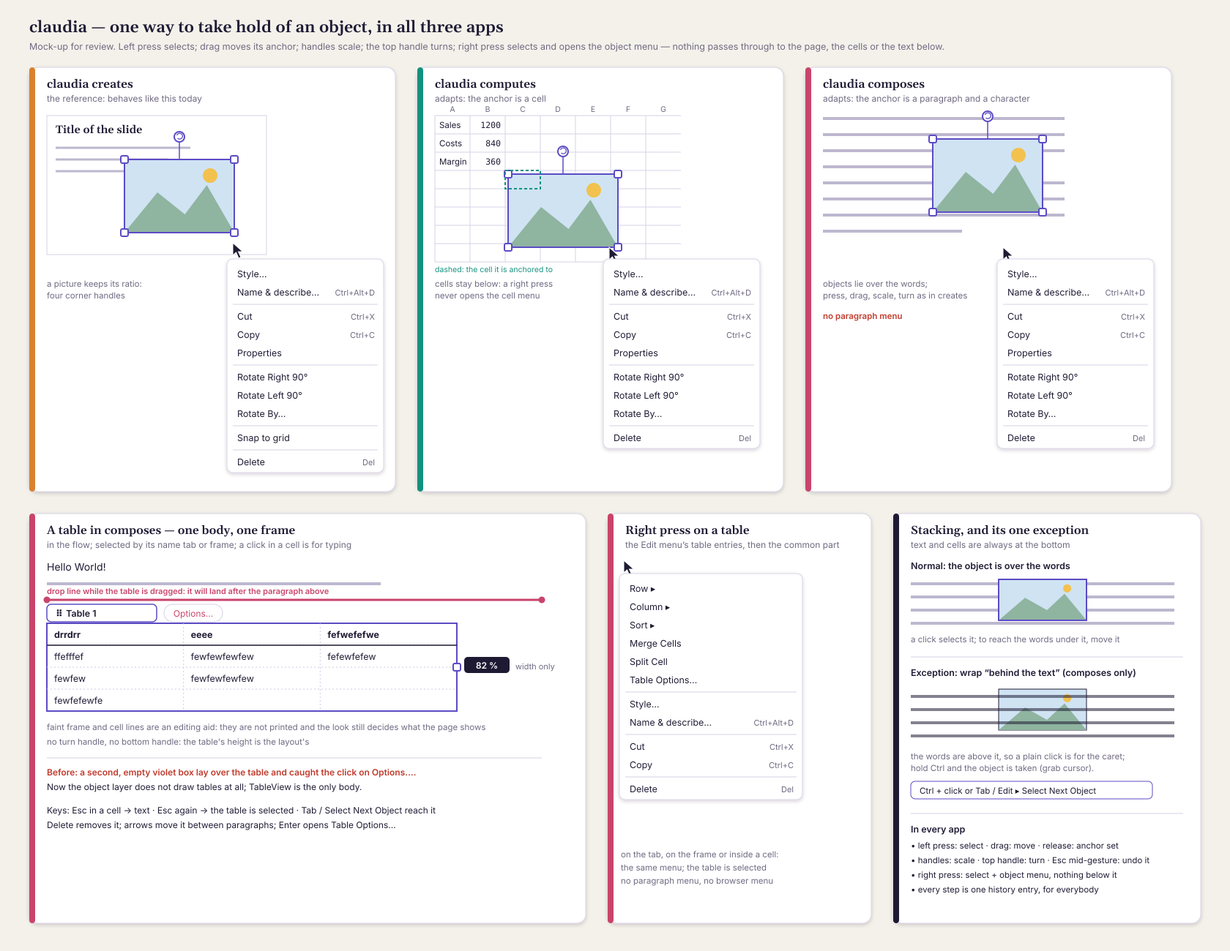
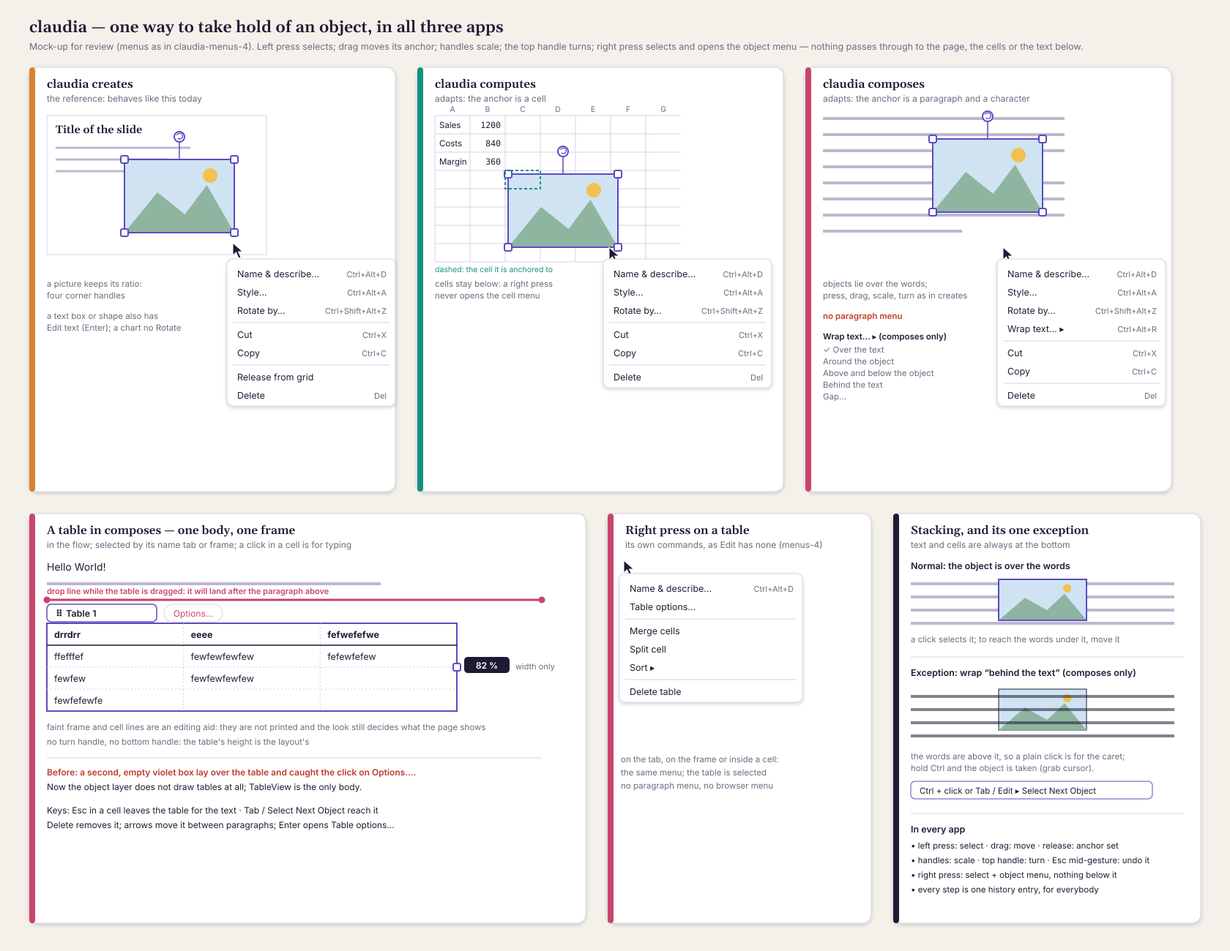
Object interaction: decisions D1221-D1226, menus as in claudia-menus-4
Writes up the agreed contract (selecting holds in all apps, objects over text
and cells with Ctrl+click only behind the text, tables as in-flow objects,
the object menu as the menus workbook sets it, bounding-box wrap for turned
objects), takes D1221-D1240, and revises the note and the mock-up to the
workbook: no 90 degree entries, Rotate by... not for charts and tables, Wrap
text... submenu, table menu. Lists what the workbook still needs.

Claude-Session: https://claude.ai/code/session_013Hm7HACXAYZk2t9xrPwEnR

diff --git a/claudiaoffice-log/notes/object-interaction-contract.md b/claudiaoffice-log/notes/object-interaction-contract.md
@@ -1,7 +1,7 @@
 # Object interaction: one contract for creates, computes and composes
 
-Written 2026-11-18, the day it was asked for. **Status: proposal, screens and diagram first (project rule). Nothing in
-`web/` is changed by this patch.** The mock-ups are `notes/mockups/object-interaction-states.svg` (what a person sees and
+Written 2026-11-18, the day it was asked for. **Status 2026-11-18 (second patch): agreed with the owner; decisions D1221–D1226 written. Nothing in
+`web/` is changed yet.** The mock-ups are `notes/mockups/object-interaction-states.svg` (what a person sees and
 can do, in all three apps) and `notes/mockups/object-interaction-architecture.svg` (where the code goes, and why). No
 decision-log entries are written here: the proposals under "Decisions to write" become decisions once the screens are
 agreed, in the id range the owner hands out for the work.
@@ -17,14 +17,20 @@ agreed, in the id range the owner hands out for the work.
 
 Answers of the same day (the owner, 2026-11-18):
 
-1. **Stack order.** Text and cells are always at the bottom of the stack. An object lies over them, so a click on it
-   simply selects it; to reach what is under it, move the object. The one exception is composes' wrap *behind the text*
+1. **Stack order** (D1222). Text and cells are always at the bottom of the stack. An object lies over them, so a click on
+   it simply selects it; to reach what is under it, move the object. The one exception is composes' wrap *behind the text*
    (D1061), where words are above the object: there, and only there, **Ctrl+click** takes the object (D1063 stays for
    exactly that case).
-2. **Tables** are in-flow objects: select, move between paragraphs, scale the width, no rotation.
-3. **Object menu:** the same list in all three apps, **without** "Snap to grid" in composes and computes (they anchor to
-   text and to cells, not to a grid).
-4. **Target branch:** `object-interaction`.
+2. **Tables** (D1224) are in-flow objects: select, move between paragraphs, scale the width, no rotation. The faint frame
+   is always on for now. `Esc` in a cell leaves the table completely.
+3. **Holding** (D1223): all three apps hold a selected object, as creates does (D82).
+4. **Words round a turned object** (D1226): the bounding box.
+5. **Menus** (D1225): the object menu is the one the menus workbook v4 (`claudia-menus-4.xlsx`, Context menus) sets, with
+   the answers below. This replaces the first proposal of this note (90° entries, no grid entry outside creates).
+6. **Table menu:** Name & describe…, Table options…, Merge cells, Split cell, Sort ▸, Delete table (the commands Edit no
+   longer has). **Rotate by…** is not offered for a chart or a table. **Wrap text…** is a submenu of the four modes of
+   D1061 with a checkmark and *Gap…*, key Ctrl+Alt+R. **Edit text** is in all three apps.
+7. **Target branch** `object-interaction`; decision ids D1221–D1240.
 
 ## The contract
 
@@ -40,10 +46,10 @@ columns that differs from creates is a bug or a stated adaptation.
 | Drag the turn handle | Rotates about the centre, 3° snap near axes, Shift 15°, Alt free (D1024) | built | **missing** | **missing** |
 | Right press on an object | Selects it and opens the object menu at the pointer; the browser's menu, the paragraph menu, the cell menu and the row/column menu do not appear | built | **opens the cell menu** | **opens the paragraph style menu** |
 | Right press elsewhere | The app's own menu (cells, headers, paragraphs) as today; Shift+right button still gives the browser's menu there | built | built | built |
-| Double click, `Enter`, `F2` | Writes in a text box, a shape or a rendered container; a picture has no words | built | rendered only | rendered only |
+| Double click, `Enter`, `F2` | Writes in a text box, a shape or a rendered container; a picture or a chart has no words (D1225) | built | rendered only | rendered only |
 | `Delete` | Removes the selected object | built | built | built |
 | Arrow keys | Nudge the object (Shift: larger steps; the exact steps are for the shared module to fix). In composes up/down hang it from the previous or next paragraph (built), left/right change the offset | built (to be checked) | **missing** | partly |
-| `Esc` | Drops a drag or a turn in progress; otherwise deselects | built | deselects | deselects |
+| `Esc` | Drops a drag or a turn in progress; otherwise deselects; in a table cell it leaves the table for the text (D1224) | built | deselects | deselects |
 | Press elsewhere | Deselects | built | built | built |
 | `Tab`, Edit ▸ Select Next Object, Ctrl+Alt+PageUp/Down | Steps through the objects of the page, sheet or slide, so everything above works without a pointer (BITV) | to be checked | PageUp/Down only | Select Next Object |
 
@@ -68,7 +74,7 @@ columns that differs from creates is a bug or a stated adaptation.
 - The table's borders: the default look (`rules`) draws only the header rules, so the table's start and end are not
   visible while editing.
 - A rendered container keeps no fixed aspect (`_check_rendered_visual`), which is why "containers with LaTeX scale
-  properly". Their *initial* size is too large: the place that sets it still has to be found (open point 4).
+  properly". Their *initial* size is too large: the place that sets it still has to be found (open point 1).
 
 **computes**
 
@@ -92,8 +98,7 @@ anchor in `claudia_core`. The client has the same split waiting to be made. (Dia
   returns the preview frame and, on release, one `Commit` (`move`, `resize`, `turn`) or nothing. It reuses
   `moveFrame`, `resizeFrame`, `moveTurned`, `resizeTurned` and `turnFromPointer` (today in `geometry.ts`/`turning.ts`),
   which gain an explicit `Bounds` instead of the constants `SLIDE_W`/`SLIDE_H`. Creates passes the slide as bounds.
-- `object-menu.ts` (exists): the item list. Gains `snap` as optional so composes and computes leave it off, and `table`
-  entries for a table. One list, one order, one key per item (D321, D361).
+- `object-menu.ts` (exists): the item list. Built from the object's kind and two flags (grid, wrap), with the list of D1225 and the table menu of D1224. One list, one order, one key per item (D321, D361).
 - `ObjectFrame.vue` (new): the selection outline, the eight (or four) handles and the turn handle with their
   accessible names, drawn once for all three apps; creates' markup moves into it.
 - `useObjectInteraction(host)` (new composable): wires `object-gestures` to pointer events with capture, the object
@@ -122,7 +127,7 @@ code as well as in behaviour.
   never resizes on a structural edit, E6.17). The preview moves freely and snaps to the cell on release.
 - **composes:** the anchor becomes the paragraph and character nearest the drop point, and `dx`/`dy` the remainder (the
   free offset of D1023). Dropping on another page or column re-hangs it from that paragraph. A turned object is judged
-  by its outline, as in creates (D1022); how words flow round a turned object is open point 3.
+  by its outline, as in creates (D1022); the words go round its bounding box (D1226).
 
 ### Tables (D1201)
 
@@ -131,8 +136,8 @@ A table is an object of kind `table`, drawn once, in the flow. The layer stops d
 
 - **Selecting.** A click on the table's name tab (a small tab above its top-left corner, "Table 1", with a grip) or on its
   frame selects the table: one outline, in the table's own box, with a handle on the right edge. A click in a cell puts
-  the caret in that cell and does *not* select the table. `Options…` moves into the table's menu and stays on the tab as
-  a button above the outline, outside the layer, so nothing covers it.
+  the caret in that cell and does *not* select the table. `Options…` stays on the tab as
+  a button above the outline, outside the layer, so nothing covers it, and is also in the table menu.
 - **Moving.** Dragging the tab or the selected frame moves the table: a horizontal *drop line* shows between the
   paragraphs it would land after; on release it is one `move_object`. The anchor is a paragraph, so the table never
   floats.
@@ -140,19 +145,28 @@ A table is an object of kind `table`, drawn once, in the flow. The layer stops d
   already stored), shows the percentage while dragging, and snaps to 100 %. Height is the layout's (the kernel says `h`
   is only what was last found), so there is no bottom handle. No rotation: the turn handle and Rotate entries are not
   shown for a table.
-- **Right click** on the tab, the frame or inside a cell selects the table and opens the table menu: Row ▸, Column ▸,
-  Sort ▸, Merge Cells, Split Cell, Table Options…, then the common part (Style…, Name & describe…, Cut, Copy, Delete).
-  These are the Edit menu's table entries, with the same keys (`table-menu.ts`); nothing new is invented.
+- **Right click** on the tab, the frame or inside a cell selects the table and opens the table menu (D1224): *Name &
+  describe…, Table options…, Merge cells, Split cell, Sort ▸, Delete table*. Edit no longer carries these (menus
+  workbook v4), so the workbook needs these rows added to its Context menus sheet (see "For the workbook" below).
+  Insert/delete ▸ and Height/width… belong to the row and column headers; composes' tables have no header UI yet.
 - **Borders.** In the editor a table always shows a faint hairline frame and cell lines (a *non-printing editing aid*,
   like Word's gridlines), whatever its look. A look with real rules draws them on top; print and PDF show only the look.
-  Whether this needs a View switch is open point 5.
+  It may become a View switch when the menu structure has one (D1224).
 
-### The object menu
+### The object menu (D1225)
 
-Same list in all three apps, in this order: **Style…, Name & describe…** (the label the menu-structure draft gives
-"Describe…"), separator; for a picture: **Cut, Copy, Properties**; otherwise **Edit Text**; separator; **Rotate Right 90°, Rotate Left 90°, Rotate By…** (not for a chart or a table); separator;
-**Snap to grid** (creates only); separator; **Delete**. A table's menu is the one above. A chart in computes has the same
-menu minus the rotate entries. Every item has the key it has in the Edit/Format menus; the shortcut hints are shown.
+One list in all three apps, in the workbook's order and groups (Context menus rows 1–9):
+
+1. **Name & describe…** (Ctrl+Alt+D) · **Edit text** (Enter; not for a picture or a chart) · **Style…** (Ctrl+Alt+A; for a
+   picture it also holds what "Properties" did) · **Rotate by…** (Ctrl+Shift+Alt+Z; not for a chart or a table) ·
+   **Wrap text… ▸** (composes only)
+2. **Cut**, **Copy** (pictures only)
+3. **Release from grid** (creates only; swaps with "Snap to grid") · **Delete** (Del)
+
+No 90° entries; Rotate by… does them. **Wrap text…** is a submenu: ✓ Over the text, Around the object, Above and below the
+object, Behind the text, then Gap…; it shows Ctrl+Alt+R, which keeps cycling (D1064). The list is built in `object-menu.ts`
+from the object's kind and two flags (grid, wrap), so the apps cannot drift. A chart's menu is the same minus Rotate by…
+and Edit text.
 
 ## E2E tests: one spec, three apps, every kind
 
@@ -163,35 +177,41 @@ does). It creates one object of every kind the app offers and runs the contract'
    (the caret / active cell did not move);
 2. drag moves, with the preview during the move and one history entry after; `Esc` mid-drag restores;
 3. each handle scales; an image keeps its ratio (and the size does **not** snap back); a table scales its width only;
-4. the turn handle rotates; Rotate Right/Left/By… from the menu;
+4. the turn handle rotates; Rotate by… from the menu (and no Rotate entry for a chart or a table);
 5. right press selects and opens the object menu with exactly the contract's items; the cell menu, the header menu and
    the paragraph menu are **not** in the DOM;
 6. keyboard: Tab / Select Next Object reaches the object, arrows nudge, Delete removes, Enter edits;
 7. composes: a table's `Options…` opens the dialog; the table has exactly one frame (`[data-testid=object-frame]`
-   count is 1); dropping a table between two paragraphs changes the order; the wrap-behind exception needs Ctrl+click.
+   count is 1); dropping a table between two paragraphs changes the order; the wrap-behind exception needs Ctrl+click;
+   `Esc` in a cell leaves the table for the text;
+8. a second window sees the holder's outline and name tag while the object is selected, and no drag live, only its result
+   (D1223).
 
 A second, cheap guard keeps it honest as features arrive: `tests/test_object_kinds_agree.py` already pins that the kinds
 have one list (`claudia_core.OBJECT_KINDS`); it gains one check that every kind of that list appears in
 `web/e2e/objects.cjs`'s kind table, so a new kind cannot ship without its row. The same file lists `ObjectHost` members, so a new host member fails a unit test until the
 three adapters have it.
 
-## Open points (answers wanted before code)
+## For the workbook (`claudia-menus`), to settle with the other agent
 
-1. **Holding.** Creates holds an object while it is selected (D82: others see an outline and a name). Computes keeps
-   its selection local ("not shared", E6.17); composes' `session.selectObject` is shared. Should all three hold, as in
-   D82? Proposed: yes, as it is the same story as the lock in creates and E10.6, but it changes what colleagues see in
-   computes and composes, so it is yours to say.
-2. **The grid in computes and composes.** Nothing snaps there in this proposal (cells and characters are the grid). If
-   you would rather have free positioning in computes (an object between two cell edges), that is a new anchor field.
-3. **Words round a turned object in composes.** Wrap uses the object's box; creates judges a turned object by its
-   outline (D1022). Proposed: the wrap uses the turned object's bounding box, and the exact outline is a later story.
-4. **The initial size of a rendered container** (LaTeX) is too large; I have not yet found where it is set. Proposed:
-   the container is first drawn at its rendered size (the renderer returns `width × height`, `service.py`), capped at
-   the column width, then scaled by the person.
-5. **The editing frame of a table.** Always on, or switchable at View ▸ Table gridlines? The menu draft is under
-   review, so I would not add a menu entry without your word.
-6. **Selecting without a pointer inside a table.** Escape in a cell leaves the table for the text today; proposed:
-   a second Escape selects the table (frame and handle), a third gives the caret back.
+1. **Table context menu rows** (Context menus sheet, Table): add *Table options…, Merge cells, Split cell, Sort ▸, Delete
+   table* for composes (D1224). The sheet has only Name & describe….
+2. **Rotate by…** row: note "not for a chart or a table" (D1021).
+3. **Wrap text…** row: the options are the four modes plus Gap…, key Ctrl+Alt+R (today's `format.wrap-text`, which is
+   already in the composes manifest on `main`); the sheet's guess ("In line with text", "No wrap") does not exist in the
+   model. "To decide" #16 and #20 are answered by D1225.
+4. **Edit text** row: D/E/F = 1 is right; its Enter key is handled by the document view.
+5. **Name & describe…** (#12, still "discuss"): not decided here. This work calls the existing dialog for objects; the
+   dialog's name and description/note fields for other things follow your answer to #12.
+
+## Open points
+
+1. **The initial size of a rendered container** (LaTeX) is too large; I have not yet found where it is set. Proposed:
+   the container is first drawn at its rendered size (the renderer returns `width × height`), capped at the column
+   width, then scaled by the person.
+2. **Composes tables have no row and column headers**, so "Height / width…" and "Insert / delete ▸" on headers (workbook
+   rows 18, 19) need that UI first; it is not part of this work.
+3. **Keys of the table menu entries** stay those the Edit entries have today until the workbook assigns new ones.
 
 ## Build order
 

diff --git a/claudiaoffice-log/decision-log/1221-current-all-one-contract-for-selecting-moving-scaling-and-turning-an-object.md b/claudiaoffice-log/decision-log/1221-current-all-one-contract-for-selecting-moving-scaling-and-turning-an-object.md
@@ -1,0 +1,18 @@
+---
+id: D1221
+title: "One contract for selecting, moving, scaling and turning an object, written once and adapted per app"
+status: current
+applies-to: all
+date: 2026-11-18
+round: "Object interaction in the three apps (branch object-interaction)"
+supersedes: []
+superseded-by: []
+---
+
+# D1221 · One contract for selecting, moving, scaling and turning an object, written once and adapted per app
+
+**A left press on an object selects it; moving the pointer more than 3 screen pixels moves it, and on release its anchor is repositioned; the handles scale it; the handle above it turns it; a right press selects it and opens the object menu, and nothing below it receives the press.** This is how creates behaves today and is the reference; computes and composes follow it. A gesture is previewed locally and is one command on release (D82), `Esc` during it puts the object back, and every kind of object that can be scaled or turned can be, in every app. An object that keeps an aspect (an image, a shape with `aspect`) shows corner handles only and keeps it, so the server never has to refuse (`_check_visual`).
+
+**The code follows D177.** The gesture (press, threshold, move, handle, turn, release, cancel), the menu list and the frame with its handles are written once in the web client; each app supplies a small host adapter (`ObjectHost`: units of the pointer, where the frame is, its bounds, what a move commits) and nothing else. What the apps release to is their own: creates the slide position, computes the cell under the top-left corner, composes the paragraph and character nearest the drop plus the free offset (D1023).
+
+**Notes.** The owner's request of 2026-11-18, after the new floating-object work left composes' objects and tables unusable and computes passing a right click through to the cells. Design in `notes/object-interaction-contract.md` with the mock-ups `object-interaction-states` and `object-interaction-architecture`. Right press elsewhere is unchanged: each app's own menu, and Shift+right button gives the browser's.

diff --git a/claudiaoffice-log/decision-log/1224-current-composes-a-table-is-an-in-flow-object-selected-by-its-tab-moved-between-paragraphs.md b/claudiaoffice-log/decision-log/1224-current-composes-a-table-is-an-in-flow-object-selected-by-its-tab-moved-between-paragraphs.md
@@ -1,0 +1,18 @@
+---
+id: D1224
+title: "A table is an in-flow object: one body, selected by its tab, moved between paragraphs, scaled in width, never turned"
+status: current
+applies-to: composes
+date: 2026-11-18
+round: "Object interaction in the three apps (branch object-interaction)"
+supersedes: []
+superseded-by: []
+---
+
+# D1224 · A table is an in-flow object: one body, selected by its tab, moved between paragraphs, scaled in width, never turned
+
+**The object layer does not draw objects of kind `table`; `TableView` is the one body.** The table has a name tab above its top-left corner and a frame. A click on the tab or the frame selects it (one outline, one handle on the right edge); a click in a cell puts the caret there and does not select it. Dragging the tab moves the table between paragraphs, with a drop line showing where it will land, and release is one `move_object`. The right-edge handle sets the table's width in hundredths of a percent of the column (`TableInfo.width`), snapping to 100 %; there is no height handle (the layout's) and no turn handle. **`Esc` in a cell leaves the table completely**, for the text. **A faint frame and cell lines are always shown in the editor** as a non-printing aid, whatever the look; print and PDF show only the look.
+
+**The table's context menu** (right press on the tab, the frame or inside a cell; the table is selected): *Name & describe…, Table options…, then Merge cells, Split cell, Sort ▸, then Delete table.* These are the commands the Edit menu no longer carries (menus workbook v4). Insert/delete and Height/width… stay on the row and column headers.
+
+**Notes.** The owner, 2026-11-18, on the three bugs of tables in composes: a second violet frame, a dead "Options…" button, no visible borders. The cause of the first two was the object layer also drawing the table's object as an empty box over the table's caption. Escape was first proposed as a two-step; the owner chose "leave the table completely". The faint frame may become a View switch when the menu structure gets one.

diff --git a/claudiaoffice-log/decision-log/1225-current-all-the-object-context-menu-as-in-the-menus-workbook.md b/claudiaoffice-log/decision-log/1225-current-all-the-object-context-menu-as-in-the-menus-workbook.md
@@ -1,0 +1,20 @@
+---
+id: D1225
+title: "The object context menu is one list for all three apps, as the menus workbook v4 sets it"
+status: current
+applies-to: all
+date: 2026-11-18
+round: "Object interaction in the three apps (branch object-interaction)"
+supersedes: []
+superseded-by: []
+---
+
+# D1225 · The object context menu is one list for all three apps, as the menus workbook v4 sets it
+
+**Right press on an object offers, in this order:** *Name & describe…* (Ctrl+Alt+D) · *Edit text* (Enter; not for a picture or a chart) · *Style…* (Ctrl+Alt+A; for a picture it also holds what "Properties" did) · *Rotate by…* (Ctrl+Shift+Alt+Z) · *Wrap text…* (composes only) · — · *Cut* and *Copy* (pictures only) · — · *Release from grid* (creates only; the one entry that swaps with "Snap to grid") · *Delete* (Del). There are no 90° entries; they are done in Rotate by…. **Rotate by… is not offered for a chart (D1021) or a table.** Edit text is in all three apps: Enter, F2 and the entry edit the words of a text box or shape wherever it floats.
+
+**Wrap text…** is a submenu of the four modes of D1061 with a checkmark on the current one (Over the text, Around the object, Above and below the object, Behind the text) and *Gap…*; the entry shows Ctrl+Alt+R, which keeps cycling the modes (D1064). It replaces Format ▸ Wrap Text.
+
+The list lives in `object-menu.ts` and is built from the object's kind and the app (a flag for the grid, one for wrap), so the three apps cannot drift apart.
+
+**Notes.** Settled with the owner on 2026-11-18 against `claudia-menus-4.xlsx`: Context menus rows 1–9 and "To decide" #6, #9, #13, #16 (answered here: the workbook guessed "In line with text / No wrap", the repo has the four modes). It supersedes the earlier proposal of this branch (Rotate Right 90°, Rotate Left 90°, no Snap to grid in composes and computes), which is no longer in the note. Keys of context-only entries (Release from grid, Wrap text…'s submenu items) follow "To decide" #20.

diff --git a/claudiaoffice-log/decision-log/1222-current-all-objects-lie-over-text-and-cells-ctrl-click-only-for-behind-the-text.md b/claudiaoffice-log/decision-log/1222-current-all-objects-lie-over-text-and-cells-ctrl-click-only-for-behind-the-text.md
@@ -1,0 +1,16 @@
+---
+id: D1222
+title: "Objects lie over the text and the cells, so a click selects them; only an object behind the text needs Ctrl"
+status: current
+applies-to: all
+date: 2026-11-18
+round: "Object interaction in the three apps (branch object-interaction)"
+supersedes: []
+superseded-by: []
+---
+
+# D1222 · Objects lie over the text and the cells, so a click selects them; only an object behind the text needs Ctrl
+
+**Text and cells are always at the bottom of the stack; an object lies over them, so a click on it selects it, and to reach what is under it a person moves the object.** The one exception is composes' wrap *behind the text* (D1061), where the words are above the object: there a plain click is for the words and **Ctrl+click takes the object** (D1063, which stays for exactly that case; Tab and Edit ▸ Select Next Object reach it without a pointer).
+
+**Notes.** The owner, 2026-11-18, answering which of D1063's rule and "a click selects" wins: in nearly all cases the object is shown on top, so it simply selects; the Ctrl rule is for the single case where the wrap puts text above an object.

diff --git a/claudiaoffice-log/decision-log/1223-current-all-selecting-an-object-holds-it-in-all-three-apps.md b/claudiaoffice-log/decision-log/1223-current-all-selecting-an-object-holds-it-in-all-three-apps.md
@@ -1,0 +1,16 @@
+---
+id: D1223
+title: "Selecting an object holds it in all three apps, as it does in creates"
+status: current
+applies-to: all
+date: 2026-11-18
+round: "Object interaction in the three apps (branch object-interaction)"
+supersedes: []
+superseded-by: []
+---
+
+# D1223 · Selecting an object holds it in all three apps, as it does in creates
+
+**In computes and composes too, selecting an object holds it** (a lock on an `ObjectSet`): the holder sees the handles, others see her coloured outline and name tag, and a move, a resize or a turn is previewed locally and sent as one command on release. This extends D82, which was written for creates; computes kept its selection local and composes' was shared without a lock.
+
+**Notes.** The owner, 2026-11-18 ("all three hold"). D82 is unchanged and still says how it works in creates. A colleague now sees in computes and composes what she already sees in creates.

diff --git a/claudiaoffice-log/decision-log/ranges.md b/claudiaoffice-log/decision-log/ranges.md
@@ -57,6 +57,7 @@ Unused numbers in a closed block stay unused.
 | D1101–D1120 | workflow: focus and quiet mode, corkboard, binder and its private drawer, open points, session intent and timeline (E16; branch `workflow`; D1101–D1116 used) | 2026-11-18 | open |
 | D780–D799 | deleting and hiding styles: origin, hidden, the held look, the stand-in, collisions, the screens (E1.10; branch `style-delete`; D226 settled, D780–D786 used) | 2026-11-17 | open |
 | D1201–D1220 | tables in composes: own tables, linked tables, merged cells, looks, keys (E9.32, E9.33; branch `tables-in-composes`; D1201–D1214 used) | 2026-11-18 | open |
+| D1221–D1240 | object interaction in the three apps: one contract for select, move, scale, turn and the object menu, tables as in-flow objects, holding, E2E (branch `object-interaction`; D1221–D1226 used) | 2026-11-18 | open |
 
 ## Never to be used
 

diff --git a/claudiaoffice-log/decision-log/1226-current-composes-the-words-go-round-the-bounding-box-of-a-turned-object.md b/claudiaoffice-log/decision-log/1226-current-composes-the-words-go-round-the-bounding-box-of-a-turned-object.md
@@ -1,0 +1,16 @@
+---
+id: D1226
+title: "The words go round the bounding box of a turned object"
+status: current
+applies-to: composes
+date: 2026-11-18
+round: "Object interaction in the three apps (branch object-interaction)"
+supersedes: []
+superseded-by: []
+---
+
+# D1226 · The words go round the bounding box of a turned object
+
+**In composes the wrap (D1061) of a turned object uses the box that holds the turned frame, not the unturned frame and not its outline.** Picking up the exact outline for the wrap is a later story; creates' judging a turned object by its outline (D1022) concerns staying on the slide and is unchanged.
+
+**Notes.** The owner, 2026-11-18 ("bounding box is good"). Needed once composes shows a turn handle; until then no composes object is turned on screen.
